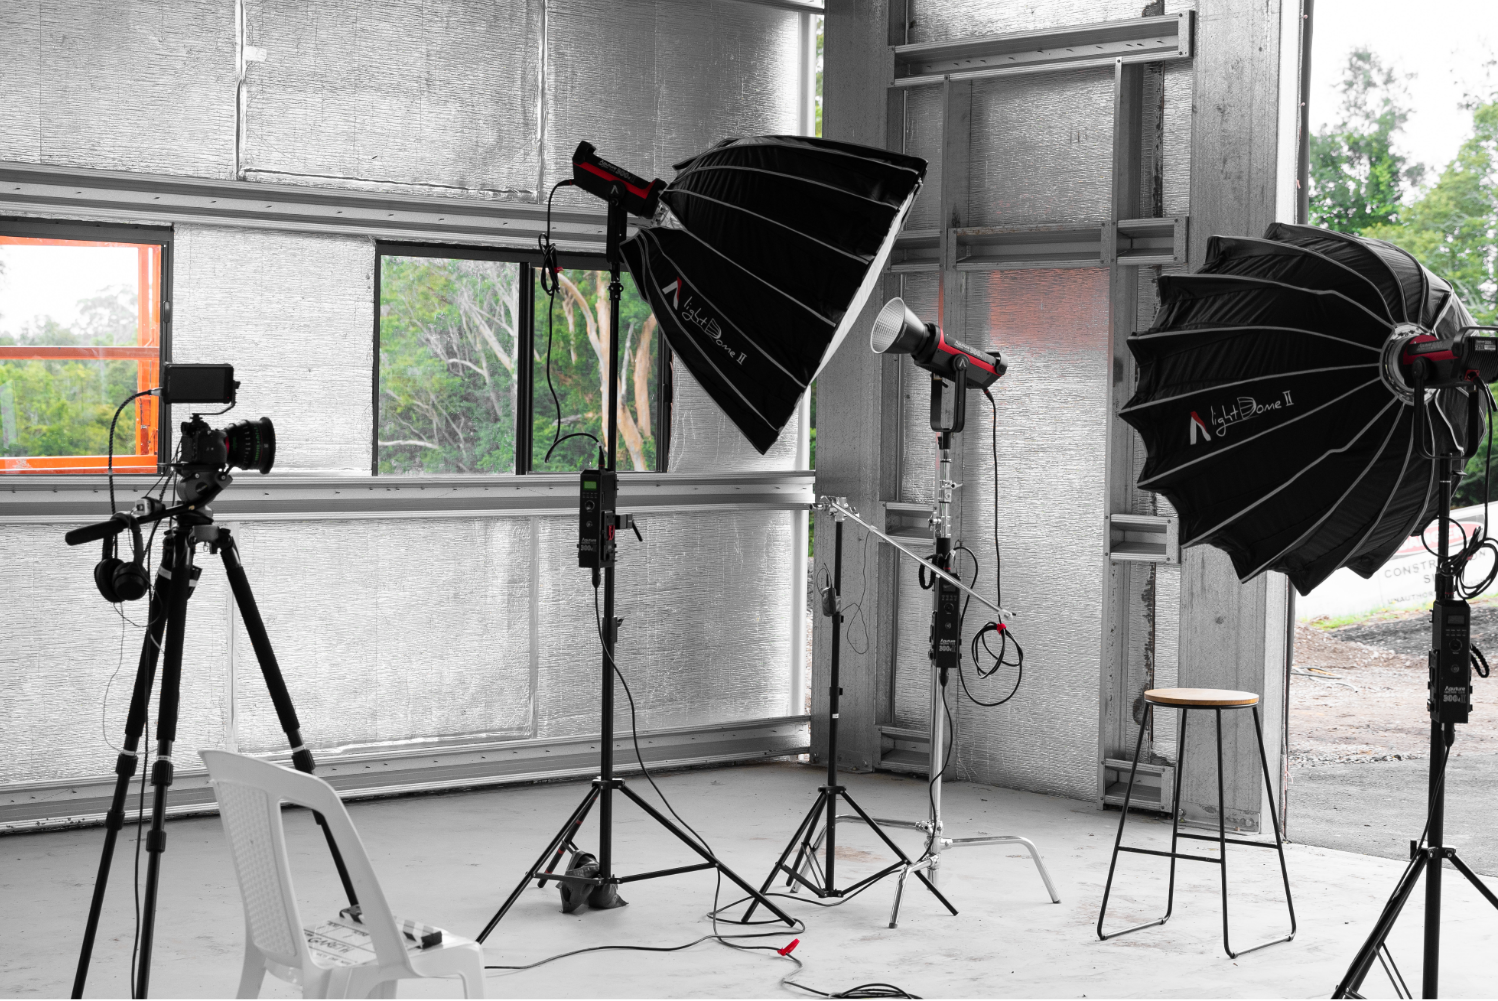
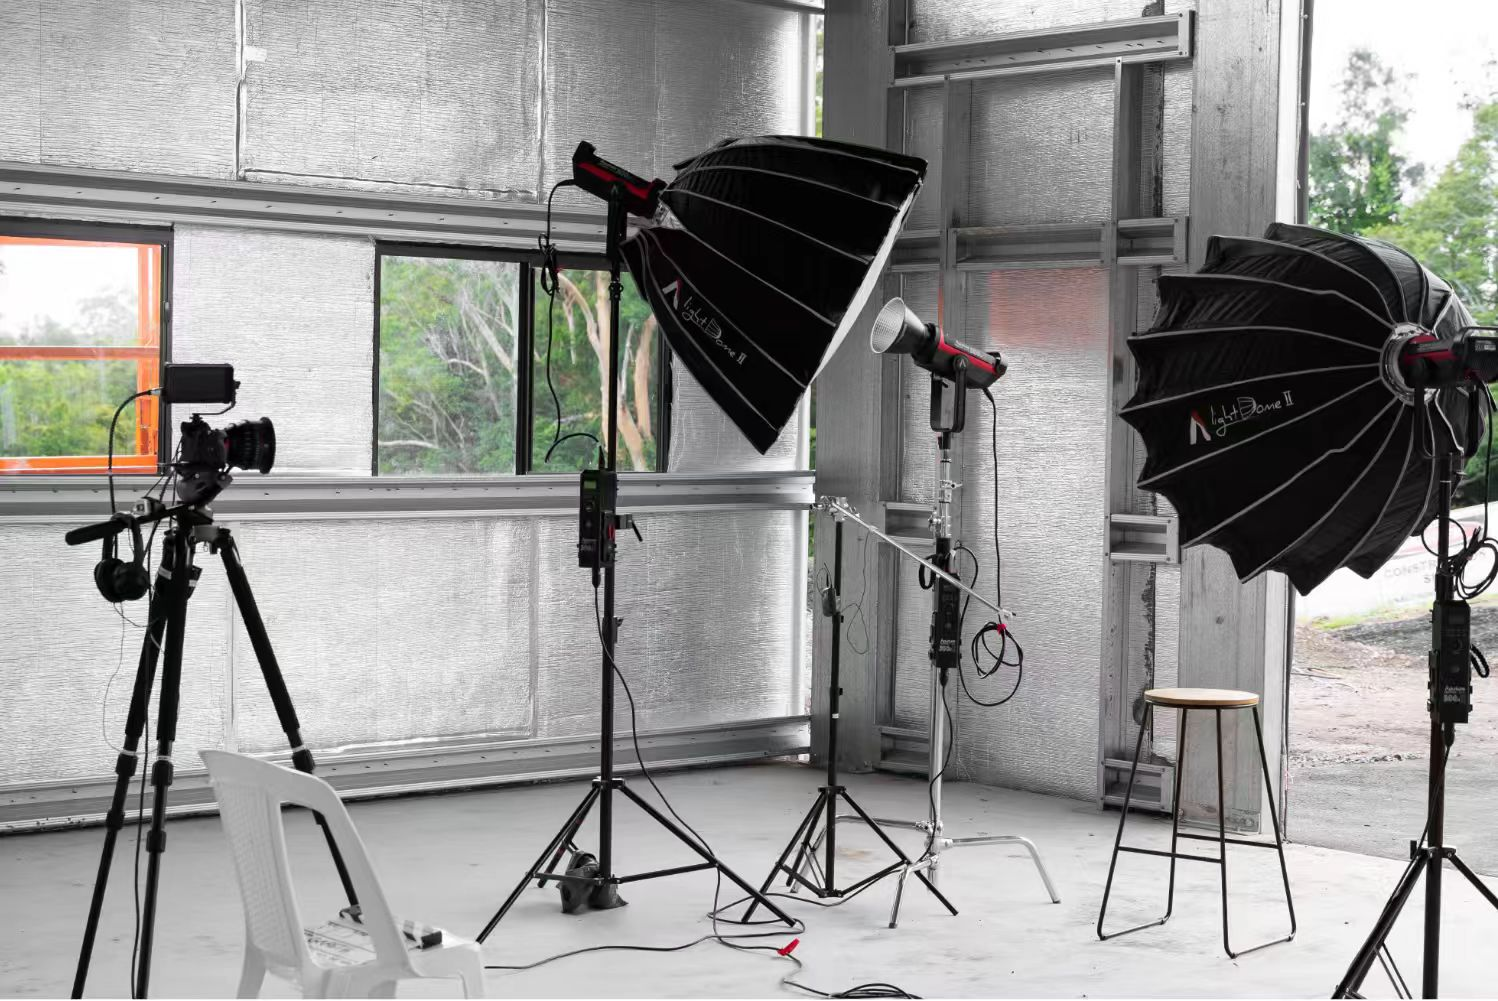
修改:图片像素修改

diff --git a/index.html b/index.html
@@ -102,7 +102,7 @@
     <!-- Banner Section (Image Only) -->
     <div class="pt-20 w-full bg-gray-900">
         <!-- Banner Image Placeholder: Replace src with 'Banner.jpg' -->
-        <img src="./网站图片/网站图片/Banner.jpg" 
+        <img src="./网站图片/网站图片/Banner2.png" 
              alt="Kan Social Media Services Banner" >
     </div>
 
